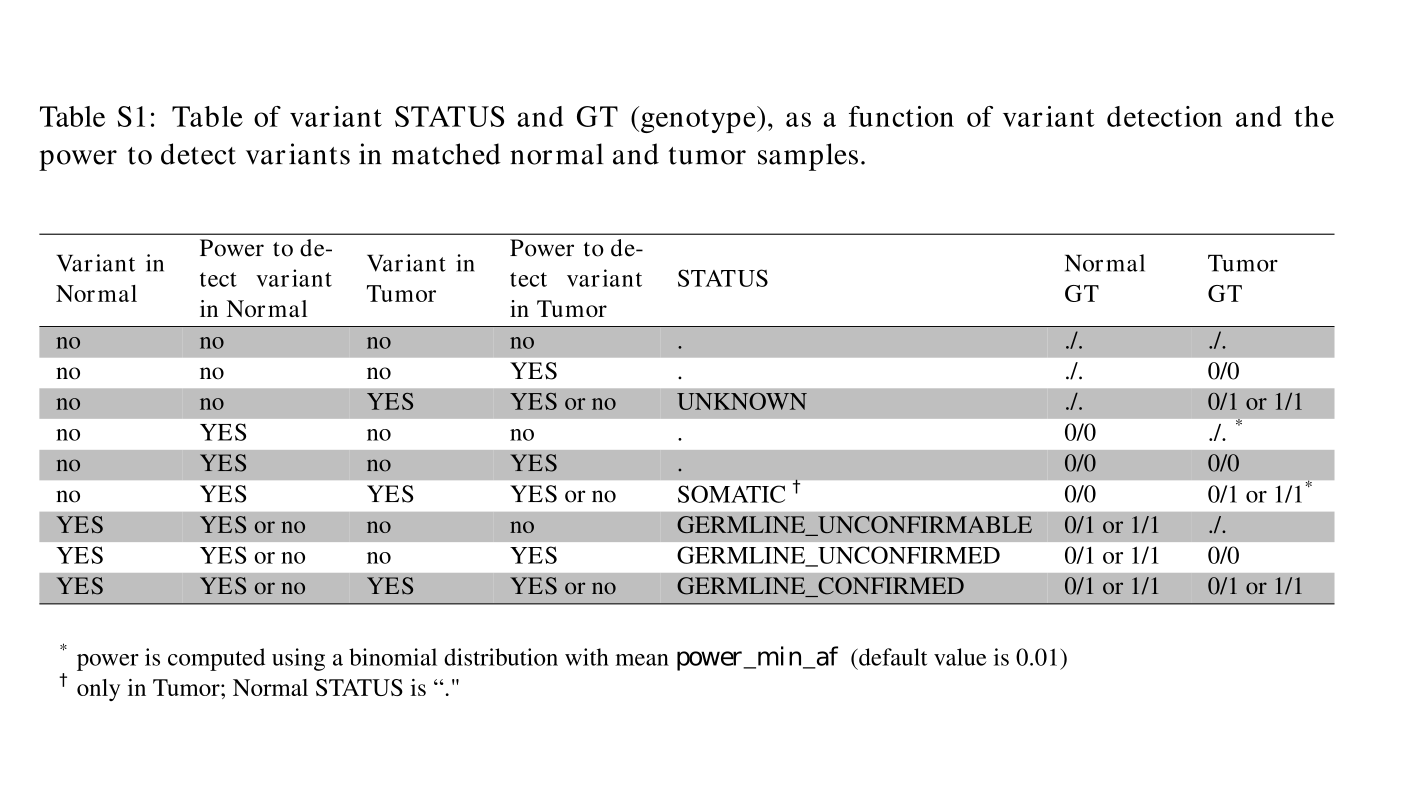
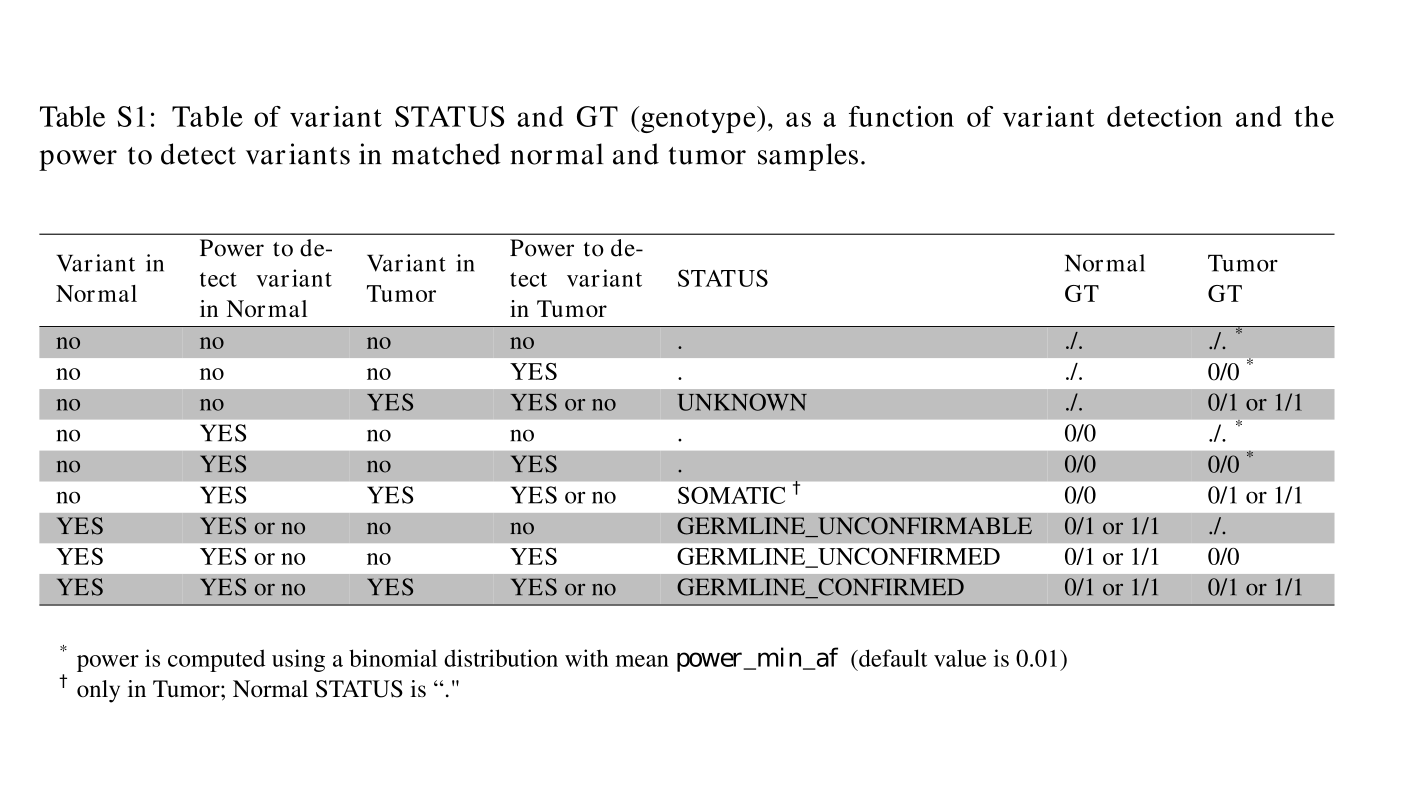
status table update

diff --git a/STATUS_TABLE.tex b/STATUS_TABLE.tex
@@ -103,12 +103,12 @@
 \hline
 \textbf{Variant in Normal} & \textbf{Power to detect variant in Normal} & \textbf{Variant in Tumor} & \textbf{Power to detect variant in Tumor} & \textbf{STATUS} & \textbf{Normal GT} & \textbf{Tumor GT}\\
 \hline
-\rowcolor{lightgray}no & no & no& no& . & ./. & ./. \\
-no & no & no& \textbf{YES}& . & ./. & 0/0 \\
+\rowcolor{lightgray}no & no & no& no& . & ./. & ./. \tnote{*}\\
+no & no & no& \textbf{YES}& . & ./. & 0/0 \tnote{*}\\
 \rowcolor{lightgray}no & no & \textbf{YES}& \textbf{YES} or no  & UNKNOWN & ./. & 0/1 or 1/1 \\
 no & \textbf{YES} & no& no& . & 0/0 & ./. \tnote{*}\\
-\rowcolor{lightgray}no & \textbf{YES} & no& \textbf{YES}& . & 0/0 & 0/0 \\
-no & \textbf{YES} & \textbf{YES}& \textbf{YES} or no & SOMATIC \tnote{\textdagger} & 0/0 & 0/1 or 1/1\tnote{*} \\
+\rowcolor{lightgray}no & \textbf{YES} & no& \textbf{YES}& . & 0/0 & 0/0 \tnote{*}\\
+no & \textbf{YES} & \textbf{YES}& \textbf{YES} or no & SOMATIC \tnote{\textdagger} & 0/0 & 0/1 or 1/1 \\
 \rowcolor{lightgray}\textbf{YES} & \textbf{YES} or no & no& no& GERMLINE\_UNCONFIRMABLE & 0/1 or 1/1 & ./. \\
 \textbf{YES} & \textbf{YES} or no & no& \textbf{YES}& GERMLINE\_UNCONFIRMED & 0/1 or 1/1 & 0/0 \\
 \rowcolor{lightgray}\textbf{YES} & \textbf{YES} or no & \textbf{YES}& \textbf{YES} or no & GERMLINE\_CONFIRMED & 0/1 or 1/1 & 0/1 or 1/1\\
